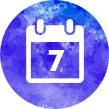
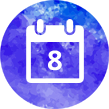
v1

Changed region(s): [[0.4404, 0.4404, 0.6055, 0.6606]]

diff --git a/index.html b/index.html
@@ -115,7 +115,7 @@
                     <ul class="pull-left">
                         <li class="item1">
                             <div class="why__inner">
-                                <div class="why__title"><span>7</span> ЛЕТ опыта</div>
+                                <div class="why__title"><span>8</span> ЛЕТ опыта</div>
                                 <div class="why__text">в сфере выездного обслуживания мероприятий на территории Украины</div>
                             </div>
 
@@ -463,7 +463,7 @@
 
                     <li class="item3">
                         <div class="staff__image">
-                            <img class="img-responsive" src="images/staff/staff_08.jpg" alt="">
+                            <img class="img-responsive" src="images/staff/staff_00.jpg" alt="">
                         </div>
                         <div class="staff__text">
                             <div class="staff__name">Нелли<br/>Ковалева</div>
@@ -495,7 +495,7 @@
 
                     <li class="item6">
                         <div class="staff__image">
-                            <img class="img-responsive" src="images/staff/staff_00.jpg" alt="">
+                            <img class="img-responsive" src="images/staff/staff_08.jpg" alt="">
                         </div>
                         <div class="staff__text">
                             <div class="staff__name">Лариса<br/>Шевченко</div>
